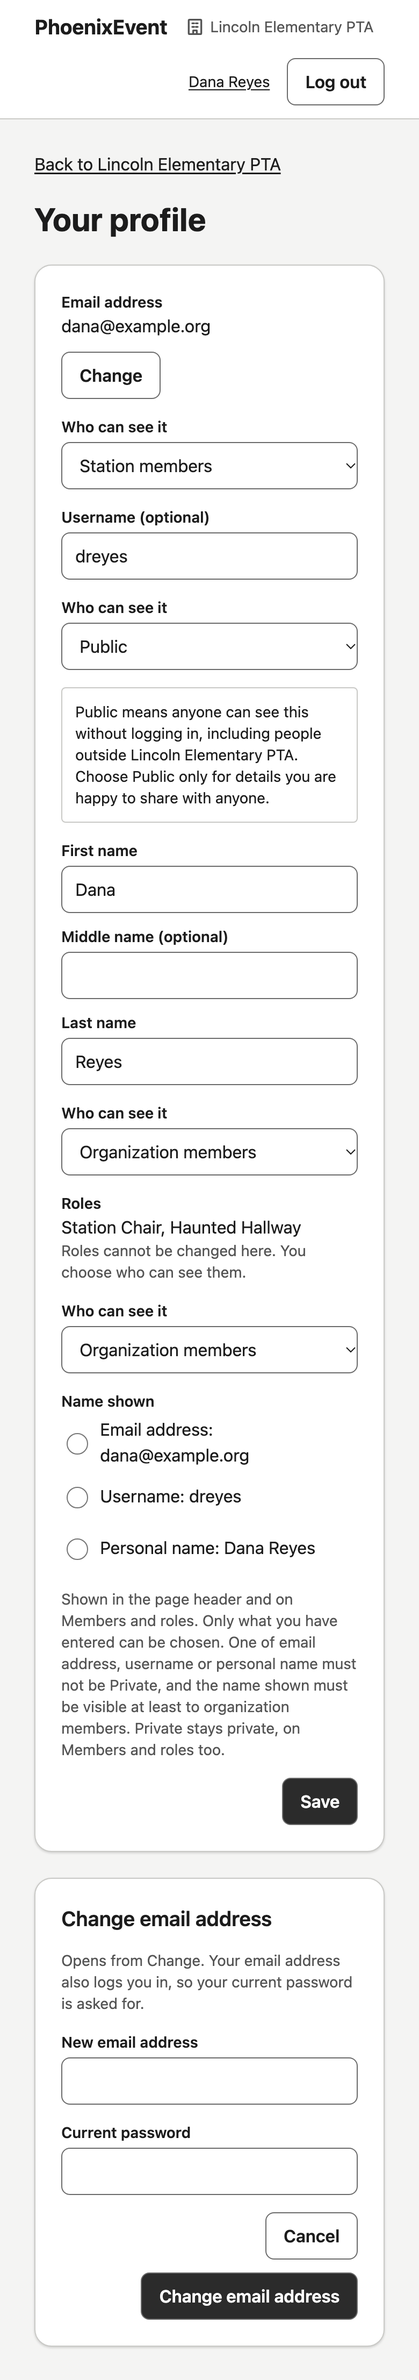
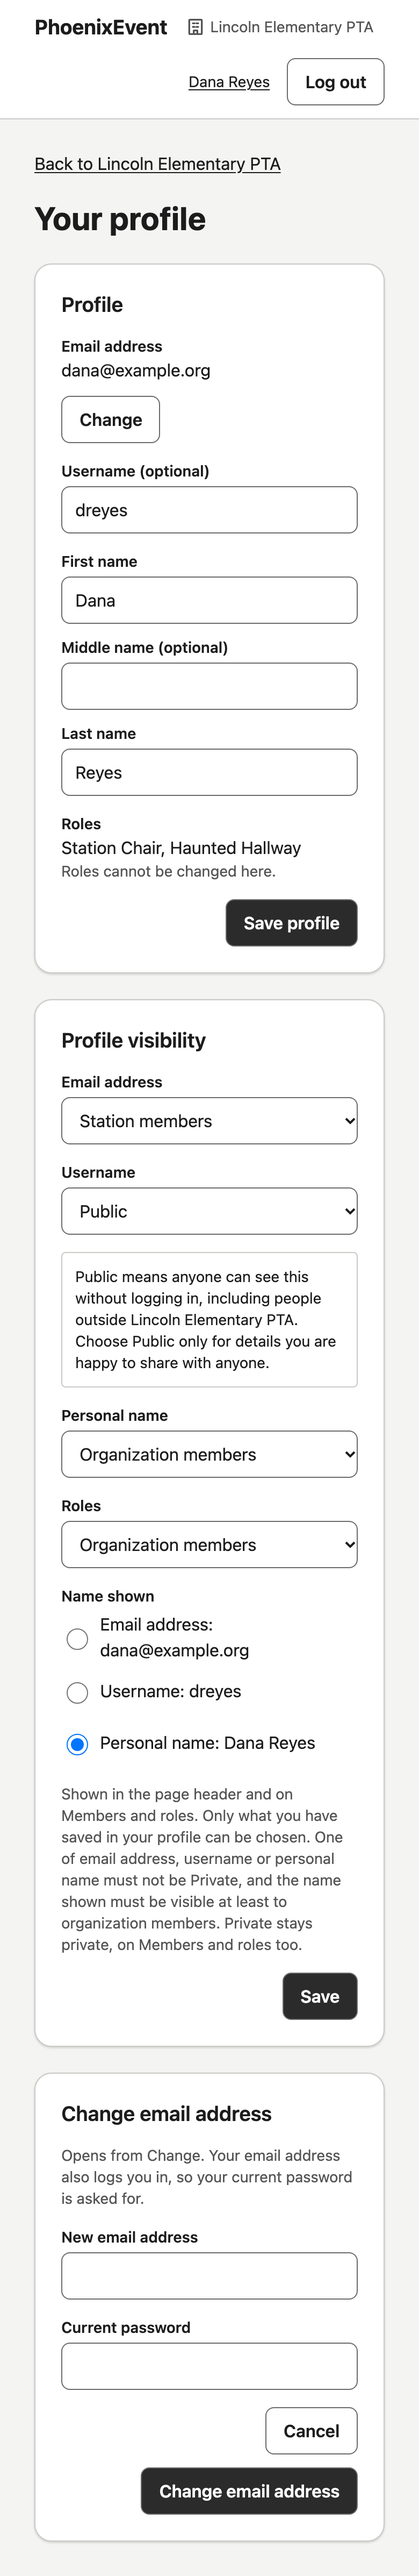
Wireframe A8: the profile and its visibility in separate sections
Laptop and phone versions, approved by the owner on October 27, 2026
(spec v1.06).

diff --git a/docs/wireframes/source/AccountProfile.dc.html b/docs/wireframes/source/AccountProfile.dc.html
@@ -29,26 +29,31 @@ a{color:#1c1c1c}a:hover{color:#000000}
 <h1 style="margin: 0; font: 700 30px/36px var(--font-sans); flex-grow: 1">Your profile</h1>
 </div>
 <section class="pe-card" style="display: flex; flex-direction: column; gap: var(--space-4)">
+<h2 style="margin: 0; font: 600 19px/26px var(--font-sans)">Profile</h2>
 <div style="display: flex; flex-wrap: wrap; align-items: center; gap: var(--space-3)"><div style="flex: 1 1 220px; display: flex; flex-direction: column"><span style="font: 600 14px/20px var(--font-sans)">Email address</span><span style="font: 400 16px/24px var(--font-sans)">dana@example.org</span></div><a class="pe-btn pe-btn--secondary" href="#change-email">Change</a></div>
-<div class="pe-field"><label class="pe-field__label" for="profile-email-level">Who can see it</label><select class="pe-input" id="profile-email-level" name="profile-email-level"><option>Public</option><option>Organization members</option><option>Event participants</option><option selected>Station members</option><option>Private</option></select></div>
 <div class="pe-field"><label class="pe-field__label" for="profile-username">Username (optional)</label><input class="pe-input" id="profile-username" name="profile-username" type="text" value="dreyes" autocomplete="username"></div>
-<div class="pe-field"><label class="pe-field__label" for="profile-username-level">Who can see it</label><select class="pe-input" id="profile-username-level" name="profile-username-level"><option selected>Public</option><option>Organization members</option><option>Event participants</option><option>Station members</option><option>Private</option></select></div>
-<p role="note" style="margin: 0; padding: var(--space-3); border: 1px solid var(--border); border-radius: var(--radius-2, 4px); background: var(--surface-raised); font: 400 14px/20px var(--font-sans)">Public means anyone can see this without logging in, including people outside Lincoln Elementary PTA. Choose Public only for details you are happy to share with anyone.</p>
 <div style="display: grid; grid-template-columns: repeat(auto-fit, minmax(180px, 1fr)); gap: var(--space-3)">
 <div class="pe-field"><label class="pe-field__label" for="profile-first">First name</label><input class="pe-input" id="profile-first" name="profile-first" type="text" value="Dana" autocomplete="given-name"></div>
 <div class="pe-field"><label class="pe-field__label" for="profile-middle">Middle name (optional)</label><input class="pe-input" id="profile-middle" name="profile-middle" type="text" autocomplete="additional-name"></div>
 <div class="pe-field"><label class="pe-field__label" for="profile-last">Last name</label><input class="pe-input" id="profile-last" name="profile-last" type="text" value="Reyes" autocomplete="family-name"></div>
 </div>
-<div class="pe-field"><label class="pe-field__label" for="profile-name-level">Who can see it</label><select class="pe-input" id="profile-name-level" name="profile-name-level"><option>Public</option><option selected>Organization members</option><option>Event participants</option><option>Station members</option><option>Private</option></select></div>
-<div style="display: flex; flex-direction: column"><span style="font: 600 14px/20px var(--font-sans)">Roles</span><span style="font: 400 16px/24px var(--font-sans)">Station Chair, Haunted Hallway</span><span style="font: 400 14px/20px var(--font-sans); color: var(--ink-muted)">Roles cannot be changed here. You choose who can see them.</span></div>
-<div class="pe-field"><label class="pe-field__label" for="profile-roles-level">Who can see it</label><select class="pe-input" id="profile-roles-level" name="profile-roles-level"><option>Public</option><option selected>Organization members</option><option>Event participants</option><option>Station members</option><option>Private</option></select></div>
+<div style="display: flex; flex-direction: column"><span style="font: 600 14px/20px var(--font-sans)">Roles</span><span style="font: 400 16px/24px var(--font-sans)">Station Chair, Haunted Hallway</span><span style="font: 400 14px/20px var(--font-sans); color: var(--ink-muted)">Roles cannot be changed here.</span></div>
+<div style="display: flex; justify-content: flex-end"><a class="pe-btn pe-btn--primary" href="AccountProfile.dc.html">Save profile</a></div>
+</section>
+<section class="pe-card" style="display: flex; flex-direction: column; gap: var(--space-4)">
+<h2 style="margin: 0; font: 600 19px/26px var(--font-sans)">Profile visibility</h2>
+<div class="pe-field"><label class="pe-field__label" for="profile-email-level">Email address</label><select class="pe-input" id="profile-email-level" name="profile-email-level"><option>Public</option><option>Organization members</option><option>Event participants</option><option selected>Station members</option><option>Private</option></select></div>
+<div class="pe-field"><label class="pe-field__label" for="profile-username-level">Username</label><select class="pe-input" id="profile-username-level" name="profile-username-level"><option selected>Public</option><option>Organization members</option><option>Event participants</option><option>Station members</option><option>Private</option></select></div>
+<p role="note" style="margin: 0; padding: var(--space-3); border: 1px solid var(--border); border-radius: var(--radius-2, 4px); background: var(--surface-raised); font: 400 14px/20px var(--font-sans)">Public means anyone can see this without logging in, including people outside Lincoln Elementary PTA. Choose Public only for details you are happy to share with anyone.</p>
+<div class="pe-field"><label class="pe-field__label" for="profile-name-level">Personal name</label><select class="pe-input" id="profile-name-level" name="profile-name-level"><option>Public</option><option selected>Organization members</option><option>Event participants</option><option>Station members</option><option>Private</option></select></div>
+<div class="pe-field"><label class="pe-field__label" for="profile-roles-level">Roles</label><select class="pe-input" id="profile-roles-level" name="profile-roles-level"><option>Public</option><option selected>Organization members</option><option>Event participants</option><option>Station members</option><option>Private</option></select></div>
 <fieldset style="margin: 0; padding: 0; border: 0; display: flex; flex-direction: column; gap: var(--space-1)">
 <legend style="padding: 0; margin-bottom: var(--space-1); font: 600 14px/20px var(--font-sans)">Name shown</legend>
 <label style="display: flex; align-items: center; gap: var(--space-2); min-height: 44px; font: 400 16px/24px var(--font-sans)"><input type="radio" name="profile-shown" style="flex: none; width: 20px; height: 20px">Email address: dana@example.org</label>
 <label style="display: flex; align-items: center; gap: var(--space-2); min-height: 44px; font: 400 16px/24px var(--font-sans)"><input type="radio" name="profile-shown" style="flex: none; width: 20px; height: 20px">Username: dreyes</label>
 <label style="display: flex; align-items: center; gap: var(--space-2); min-height: 44px; font: 400 16px/24px var(--font-sans)"><input type="radio" name="profile-shown" defaultChecked="checked" style="flex: none; width: 20px; height: 20px">Personal name: Dana Reyes</label>
 </fieldset>
-<p style="margin: 0; font: 400 14px/20px var(--font-sans); color: var(--ink-muted)">Shown in the page header and on Members and roles. Only what you have entered can be chosen. One of email address, username or personal name must not be Private, and the name shown must be visible at least to organization members. Private stays private, on Members and roles too.</p>
+<p style="margin: 0; font: 400 14px/20px var(--font-sans); color: var(--ink-muted)">Shown in the page header and on Members and roles. Only what you have saved in your profile can be chosen. One of email address, username or personal name must not be Private, and the name shown must be visible at least to organization members. Private stays private, on Members and roles too.</p>
 <div style="display: flex; justify-content: flex-end"><a class="pe-btn pe-btn--primary" href="AccountProfile.dc.html">Save</a></div>
 </section>
 <section class="pe-card" id="change-email" style="display: flex; flex-direction: column; gap: var(--space-4)">
